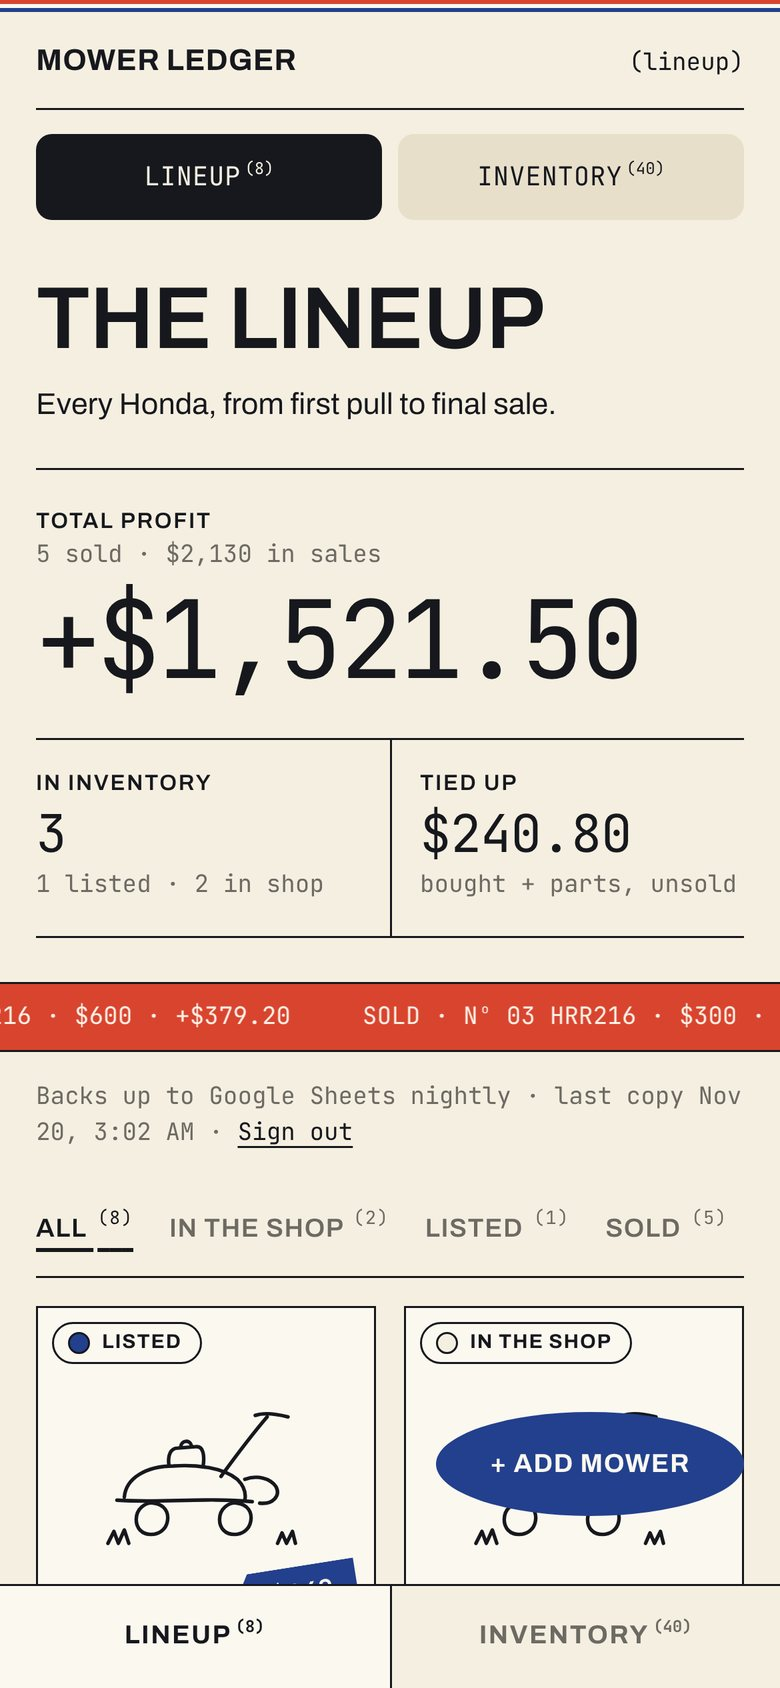
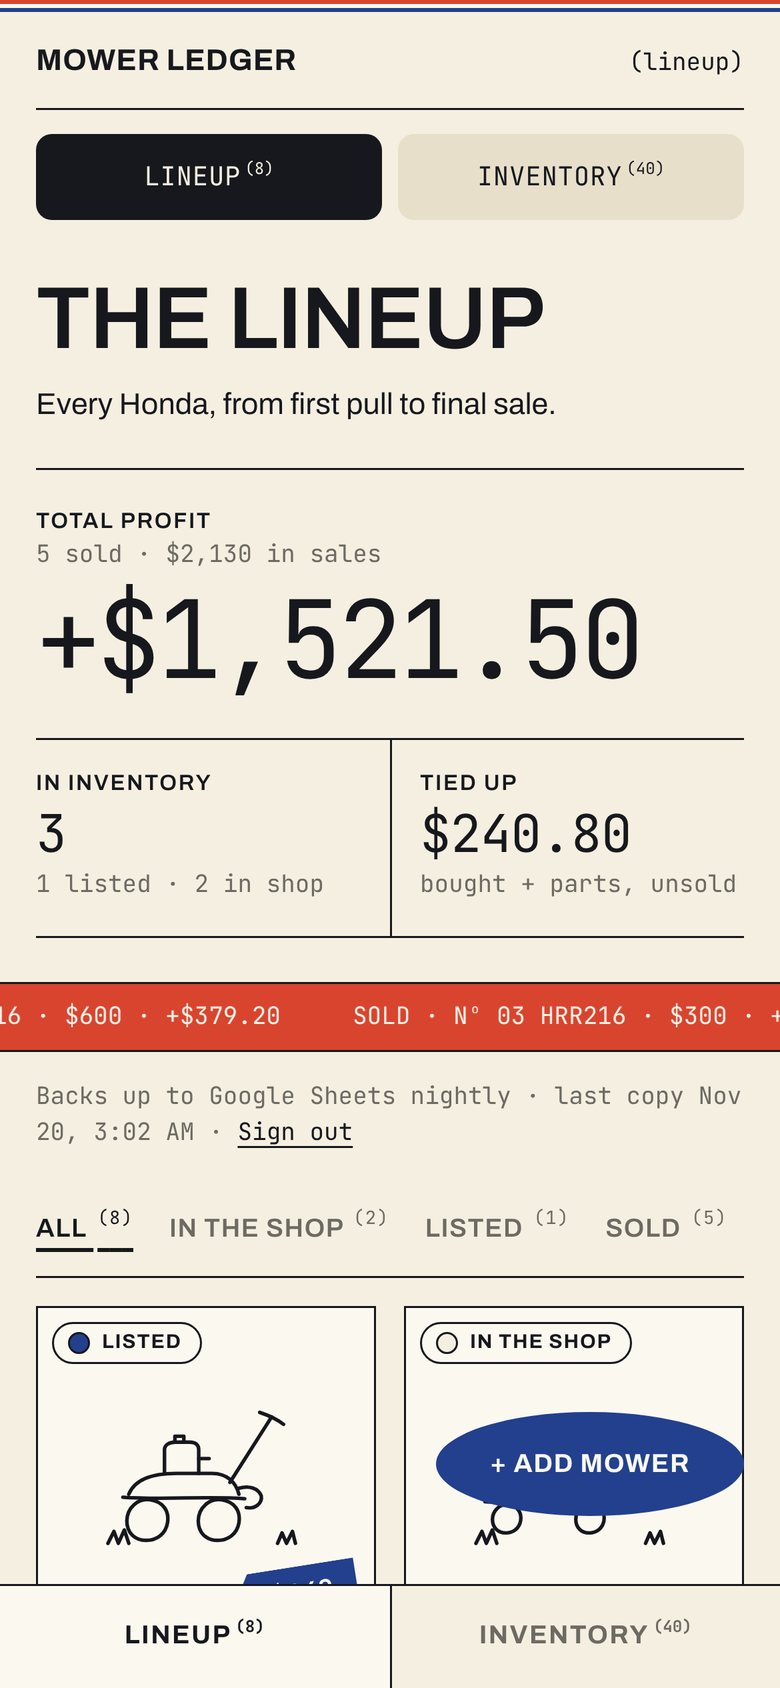
Mower Ledger screenshots with the new doodles
Claude-Session: https://claude.ai/code/session_015WQEqQiMFvincPxCz7zSVQ

diff --git a/mower.html b/mower.html
@@ -57,9 +57,9 @@
     <p class="textlinks"><a href="https://mower-ledger.vercel.app/demo" target="_blank" rel="noopener">Try the demo, with sample mowers</a></p>
 
     <div class="shots">
-      <figure><img src="img/mower-lineup.jpg?v=1" alt="The home screen, titled The Lineup: total profit of $1,521.50 across 5 sales, 3 mowers in inventory with $240.80 tied up, and a red ticker of recent sales." loading="lazy"><figcaption>The lineup: profit first</figcaption></figure>
-      <figure><img src="img/mower-sold.jpg?v=1" alt="A sold mower's page: a line-drawn mower with a red $600 price-gun sticker, model HRC216, a red SOLD band dated Oct 25, and the start of its profit breakdown." loading="lazy"><figcaption>Every mower is a spec sheet</figcaption></figure>
-      <figure><img src="img/mower-inventory.jpg?v=1" alt="The Inventory page, framed by line-drawn tools on a pegboard: $211.70 on hand, and air filters at $4.25 a piece with 18 on hand and 2 used." loading="lazy"><figcaption>Inventory, costed per piece</figcaption></figure>
+      <figure><img src="img/mower-lineup.jpg?v=2" alt="The home screen, titled The Lineup: total profit of $1,521.50 across 5 sales, 3 mowers in inventory with $240.80 tied up, and a red ticker of recent sales." loading="lazy"><figcaption>The lineup: profit first</figcaption></figure>
+      <figure><img src="img/mower-sold.jpg?v=2" alt="A sold mower's page: a line-drawn mower with a red $600 price-gun sticker, model HRC216, a red SOLD band dated Oct 25, and the start of its profit breakdown." loading="lazy"><figcaption>Every mower is a spec sheet</figcaption></figure>
+      <figure><img src="img/mower-inventory.jpg?v=2" alt="The Inventory page, framed by line-drawn tools on a pegboard: $211.70 on hand, and air filters at $4.25 a piece with 18 on hand and 2 used." loading="lazy"><figcaption>Inventory, costed per piece</figcaption></figure>
     </div>
 
     <hr class="rule">
@@ -102,9 +102,9 @@
     </div>
 
     <div class="shots">
-      <figure><img src="img/mower-part-prompt.jpg?v=1" alt="The Log work sheet for New air filter, asking where the part came from: from inventory, bought for this job, or had it already. Air filter from inventory is selected, 18 on hand at $4.25." loading="lazy"><figcaption>A part job asks where the part came from</figcaption></figure>
-      <figure><img src="img/mower-worklog.jpg?v=1" alt="A mower's status set to sold, its listing sites, condition at purchase, and a work log where each job shows its cost: wheels $48, oil change $7, spark plug $3.80." loading="lazy"><figcaption>The work log carries its own costs</figcaption></figure>
-      <figure><img src="img/mower-books.jpg?v=1" alt="Records on a pale blue band, biggest profit and best return of 411%, then The Books: sales $2,130, mowers bought, inventory bought, other expenses, net cash +$1,069 and still holding $452.50." loading="lazy"><figcaption>Records and the books</figcaption></figure>
+      <figure><img src="img/mower-part-prompt.jpg?v=2" alt="The Log work sheet for New air filter, asking where the part came from: from inventory, bought for this job, or had it already. Air filter from inventory is selected, 18 on hand at $4.25." loading="lazy"><figcaption>A part job asks where the part came from</figcaption></figure>
+      <figure><img src="img/mower-worklog.jpg?v=2" alt="A mower's status set to sold, its listing sites, condition at purchase, and a work log where each job shows its cost: wheels $48, oil change $7, spark plug $3.80." loading="lazy"><figcaption>The work log carries its own costs</figcaption></figure>
+      <figure><img src="img/mower-books.jpg?v=2" alt="Records on a pale blue band, biggest profit and best return of 411%, then The Books: sales $2,130, mowers bought, inventory bought, other expenses, net cash +$1,069 and still holding $452.50." loading="lazy"><figcaption>Records and the books</figcaption></figure>
     </div>
 
     <hr class="rule">
@@ -141,8 +141,8 @@
     </ul>
 
     <div class="shots">
-      <figure><img src="img/mower-gallery.jpg?v=1" alt="The gallery: line-drawn mowers in square frames with status tags and blue and red price stickers, labelled by model number." loading="lazy"><figcaption>The gallery</figcaption></figure>
-      <figure><img src="img/mower-sold-moment.jpg?v=1" alt="The sold moment: a red price-gun sticker reading SOLD $240 with the profit, red, white and blue paper falling, and the doodle mower driving across the screen." loading="lazy"><figcaption>The sold moment</figcaption></figure>
+      <figure><img src="img/mower-gallery.jpg?v=2" alt="The gallery: line-drawn mowers in square frames with status tags and blue and red price stickers, labelled by model number." loading="lazy"><figcaption>The gallery</figcaption></figure>
+      <figure><img src="img/mower-sold-moment.jpg?v=2" alt="The sold moment: a red price-gun sticker reading SOLD $240 with the profit, red, white and blue paper falling, and the doodle mower driving across the screen." loading="lazy"><figcaption>The sold moment</figcaption></figure>
     </div>
 
     <hr class="rule">
